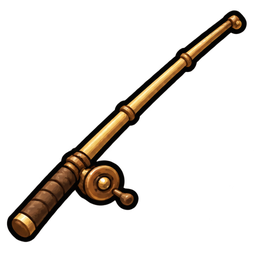
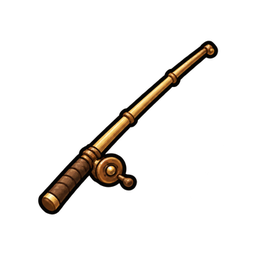
낚싯대 그림을 동그랗게 잘려도 끝이 남게 줄이고, 외형 문서를 그에 맞게 수정
Claude-Session: https://claude.ai/code/session_01DhhJ7bmzCrjQcYyiFSaHRh

Changed region(s): [[0.0312, 0.0312, 0.9688, 0.9688]]

diff --git a/docs/낚싯대-외형.md b/docs/낚싯대-외형.md
@@ -5,15 +5,15 @@
 
 ## 공통 그림 규칙
 
-지금 올라가 있는 그림(`images/rods/`)이 기준입니다. 낚싯대를 **가까이 확대한 구도**라, 작은 아이콘에서도 릴과 손잡이 색이 또렷하게 보입니다.
+지금 올라가 있는 그림(`images/rods/`)이 기준입니다. 디스코드가 아이콘을 동그랗게 자르므로 **낚싯대 전체가 가운데 원 안에** 들어가게 그립니다.
 
 | 항목 | 추천 |
 |---|---|
 | 비율·크기 | **1:1** (정사각형), 256×256 (최소 128×128). 더 크게 그려도 보이는 크기는 같아요 |
 | 파일 | **투명 배경** PNG, 1MB 이하(작은 그림이라 보통 100KB 안쪽), `images/rods/<id>.png` |
 | 보이는 크기 | 메시지 **왼쪽 위에 약 24px**, **동그랗게 잘려** 보입니다(이름 글자 바로 앞의 작은 아이콘) |
-| 구도 | 대를 **45° 대각선으로 그림을 꽉 채우기**: 손잡이 끝은 왼쪽 아래 모서리, 대 끝은 오른쪽 위 모서리에 닿게. 디스코드가 동그랗게 자르면 양 끝이 조금 잘려서 낚싯대를 확대한 것처럼 보여요 |
-| 릴 | 손잡이 바로 위, 대의 **오른쪽 아래**에 크게(그림 폭의 약 4분의 1). 릴과 손잡이처럼 알아봐야 할 부분은 **그림 가운데 원 안**에 두기 |
+| 구도 | 대를 **45° 대각선으로**: 손잡이 끝은 왼쪽 아래, 대 끝은 오른쪽 위. 네 모서리는 잘리므로 손잡이 끝과 대 끝은 모서리에서 13~15% 안쪽에 두고, 대 전체와 효과가 가운데 원 안에 들어가게 |
+| 릴 | 손잡이 바로 위, 대의 **오른쪽 아래**에 크게(그림 폭의 약 5분의 1). 작은 아이콘에서는 릴과 손잡이 색으로 낚싯대를 알아봐요 |
 | 단순하게 | 대는 그림 폭의 10~12%로 굵게, 외곽선은 **진한 검정으로 두껍게**(256×256 기준 4px쯤). 대에는 마디 고리 2~3개만. 낚싯줄·찌는 그리지 않기 |
 | 통일 | 5종 모두 같은 각도(45°)·같은 굵기·같은 릴 크기와 위치·같은 빛 방향(왼쪽 위) |
 | 등급 느낌 | 좋은 낚싯대일수록 재료가 고급스러워지고 효과가 늘어남(색은 장비 등급 색과 맞춤). 반짝임·번개 같은 효과는 **대에 바짝 붙여 작게** 그려야 작은 아이콘에서 지저분해지지 않아요 |
@@ -28,8 +28,9 @@
 ```
 2D 게임 아이템 아이콘, 아주 굵고 진한 검은 외곽선과 단순한 셀 셰이딩, 선명한 색.
 정사각형 1:1(256×256) 그림. 아주 작게 줄여도 알아볼 수 있게 단순하게.
-낚싯대 하나만 45° 대각선으로, 손잡이 끝은 왼쪽 아래 모서리, 대 끝은 오른쪽 위 모서리에 닿게 그림을 꽉 채운다.
-릴은 손잡이 바로 위, 대의 오른쪽 아래에 크게 달고, 그림 가운데에 오게 한다.
+낚싯대 하나만 45° 대각선으로 놓고, 손잡이 끝은 왼쪽 아래, 대 끝은 오른쪽 위.
+낚싯대 전체와 효과가 그림 가운데 원 안에 들어가고, 네 모서리는 비어 있다.
+릴은 손잡이 바로 위, 대의 오른쪽 아래에 크게 단다.
 대는 굵고, 마디 고리는 2~3개만. 낚싯줄·찌는 없다.
 빛은 왼쪽 위에서 온다.
 투명 배경, 물·바닥·그림자 없음. 글자·숫자·워터마크·테두리 없음.
@@ -40,8 +41,9 @@
 ```
 2D 게임 아이템 아이콘, 아주 굵고 진한 검은 외곽선과 단순한 셀 셰이딩, 선명한 색.
 정사각형 1:1(256×256) 그림. 아주 작게 줄여도 알아볼 수 있게 단순하게.
-낚싯대 하나만 45° 대각선으로, 손잡이 끝은 왼쪽 아래 모서리, 대 끝은 오른쪽 위 모서리에 닿게 그림을 꽉 채운다.
-릴은 손잡이 바로 위, 대의 오른쪽 아래에 크게 달고, 그림 가운데에 오게 한다.
+낚싯대 하나만 45° 대각선으로 놓고, 손잡이 끝은 왼쪽 아래, 대 끝은 오른쪽 위.
+낚싯대 전체와 효과가 그림 가운데 원 안에 들어가고, 네 모서리는 비어 있다.
+릴은 손잡이 바로 위, 대의 오른쪽 아래에 크게 단다.
 대는 굵고, 마디 고리는 2~3개만. 낚싯줄·찌는 없다.
 빛은 왼쪽 위에서 온다.
 투명 배경, 물·바닥·그림자 없음. 글자·숫자·워터마크·테두리 없음.
@@ -54,11 +56,11 @@
 |---|---|
 | 크기 | 대부분의 도구가 1:1을 고를 수 있어요. 크게(예: 1024×1024) 만들었으면 256×256으로 줄여서 올리기 |
 | 투명 배경이 안 됨 | `투명 배경` 대신 `낚싯대에 없는 색의 단색 배경`으로 만들고, 배경 지우기 도구로 지우기 |
-| 낚싯대가 작게 나옴 | 프롬프트 끝에 `낚싯대가 그림 모서리에서 모서리까지 닿을 만큼 크게.`를 더하기 |
+| 낚싯대 끝이 모서리까지 닿음 | 프롬프트 끝에 `낚싯대 양 끝이 모서리에서 떨어져 원 안에 들어가게.`를 더하기. 다 만든 그림이면 둘레에 투명 여백을 넣어 75%쯤으로 줄이기 |
 | 너무 복잡하게 나옴 | 프롬프트 끝에 `선과 색을 최대한 줄인 단순한 아이콘.`을 더하기 |
 | 그림체가 들쭉날쭉함 | 지금 그림을 함께 넣고 `이 그림과 같은 그림체와 구도로`를 더하기 |
 | 영어만 잘 알아듣는 도구 | 이어 붙인 프롬프트를 통째로 영어로 번역해서 넣기 |
-| 다 만든 뒤 | 24px로 줄이고 동그랗게 잘라 봤을 때 릴과 손잡이 색으로 어떤 낚싯대인지 알아볼 수 있는지 확인하기 |
+| 다 만든 뒤 | 동그랗게 잘라 봤을 때 양 끝이 잘리지 않는지, 24px로 줄였을 때 릴과 손잡이 색으로 어떤 낚싯대인지 알아볼 수 있는지 확인하기 |
 
 ## 낚싯대 5종
 

diff --git a/README.md b/README.md
@@ -85,10 +85,10 @@ images/
 |---|---|---|---|
 | 물고기 | **3:1** | 1200×400 (최소 600×200) | `/낚시` 결과 아래 — 물고기를 가로로 눕혀 머리가 왼쪽 |
 | 장비 | **3:1** | 1200×400 (최소 600×200) | 장비 창 아래 — 무기는 가로로 눕히고, 갑옷·장신구는 가운데에 세로를 꽉 채워서 |
-| 낚싯대 | **1:1** | 256×256 (최소 128×128) | 메시지 왼쪽 위 — 대를 대각선으로 모서리까지 꽉 채워서(양 끝은 동그랗게 잘림) |
+| 낚싯대 | **1:1** | 256×256 (최소 128×128) | 메시지 왼쪽 위 — 대를 대각선으로, 동그란 테두리 안에 |
 
 - 물고기·장비 이미지는 메시지 **맨 아래에 넓고 낮게** 들어갑니다. 디스코드에서는 가로 약 400px, 세로 약 130px로 보이니 위아래 여백은 거의 두지 말고 물건을 크게 그려 주세요.
-- 낚싯대 이미지는 메시지 **왼쪽 위에 아주 작게(약 24px) 동그랗게 잘려** 보입니다. 대를 모서리까지 꽉 채워 가까이 확대한 것처럼 보이게 하고, 릴·손잡이처럼 알아봐야 할 부분은 가운데 원 안에 두고, 굵고 단순하게 그려 주세요.
+- 낚싯대 이미지는 메시지 **왼쪽 위에 아주 작게(약 24px) 동그랗게 잘려** 보입니다. 네 모서리는 잘리니 대 전체를 가운데 원 안에 넣고, 굵고 단순하게 그려 주세요.
 
 - 모두 **투명 배경 PNG**를 권합니다(디스코드 다크·라이트 모드 모두에서 자연스러움). 형식은 PNG·JPG·GIF·WebP를 쓸 수 있습니다.
 - 한 장에 1MB 이하, 가장자리 10%쯤 여백을 두면 작게 보여도 잘리지 않습니다.
@@ -101,4 +101,4 @@ images/
 
 - [장비 외형](docs/장비-외형.md): 장비 180종의 생김새, 등급별 분위기(색·재료·빛), 종류별 구도, 파일 이름
 - [물고기 외형](docs/물고기-외형.md): 물고기 12종의 생김새, 등급별 분위기, 구도가 다른 물고기, 황금 물고기 안내
-- [낚싯대 외형](docs/낚싯대-외형.md): 낚싯대 5종의 생김새와 그림 규칙(1:1, 왼쪽 위 작은 그림, 확대한 구도)
+- [낚싯대 외형](docs/낚싯대-외형.md): 낚싯대 5종의 생김새와 그림 규칙(1:1, 왼쪽 위 작은 그림, 대 전체를 원 안에)
